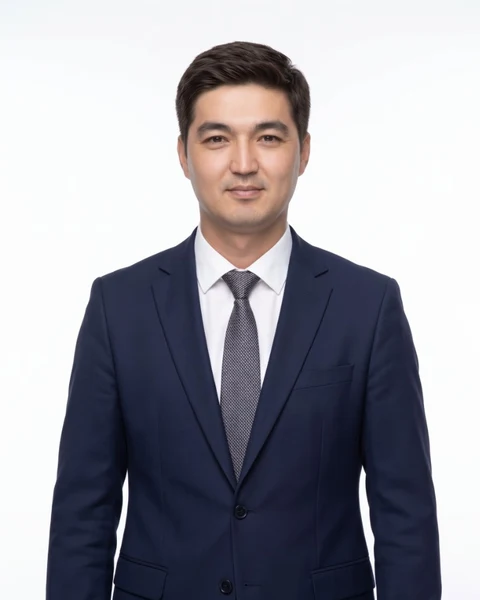
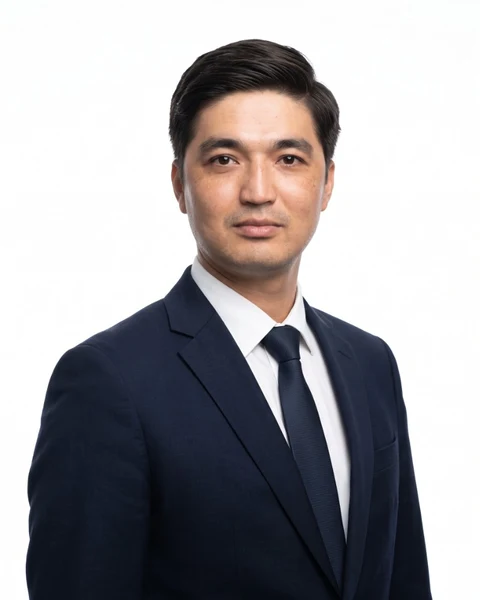
Asadbek Mamarasulov fotosurati yangilandi

diff --git a/public/index.html b/public/index.html
@@ -782,7 +782,7 @@ ul,ol{margin:0;padding:0;list-style:none}
 }
 .founder-quote svg{width:26px;height:26px;color:var(--green);opacity:.3;margin-bottom:12px}
 .founder-sign{display:flex;align-items:center;gap:13px;margin-top:20px;padding-top:18px;border-top:1px solid var(--rule)}
-.fs-av{width:52px;height:52px;border-radius:50%;flex:none;border:2px solid var(--paper-2);box-shadow:var(--sh-1);background:url("images/team/asadbek-mamarasulov-avatar.webp?v=4") 50% 50% / cover no-repeat}
+.fs-av{width:52px;height:52px;border-radius:50%;flex:none;border:2px solid var(--paper-2);box-shadow:var(--sh-1);background:url("images/team/asadbek-mamarasulov-avatar.webp?v=5") 50% 50% / cover no-repeat}
 
 /* ============================================================
    checklists inside service cards + small annotated notes
@@ -2202,8 +2202,8 @@ input[type=range]:focus-visible{outline:2px solid var(--green-2);outline-offset:
     <ul class="team-grid">
       <li class="team-card rv" style="--d:0ms">
         <figure>
-          <img src="images/team/asadbek-mamarasulov-800.webp?v=4"
-               srcset="images/team/asadbek-mamarasulov-480.webp?v=4 480w, images/team/asadbek-mamarasulov-800.webp?v=4 800w"
+          <img src="images/team/asadbek-mamarasulov-800.webp?v=5"
+               srcset="images/team/asadbek-mamarasulov-480.webp?v=5 480w, images/team/asadbek-mamarasulov-800.webp?v=5 800w"
                sizes="(max-width: 900px) 46vw, 400px"
                width="800" height="1000" loading="lazy" decoding="async"
                alt="Asadbek Mamarasulov">
